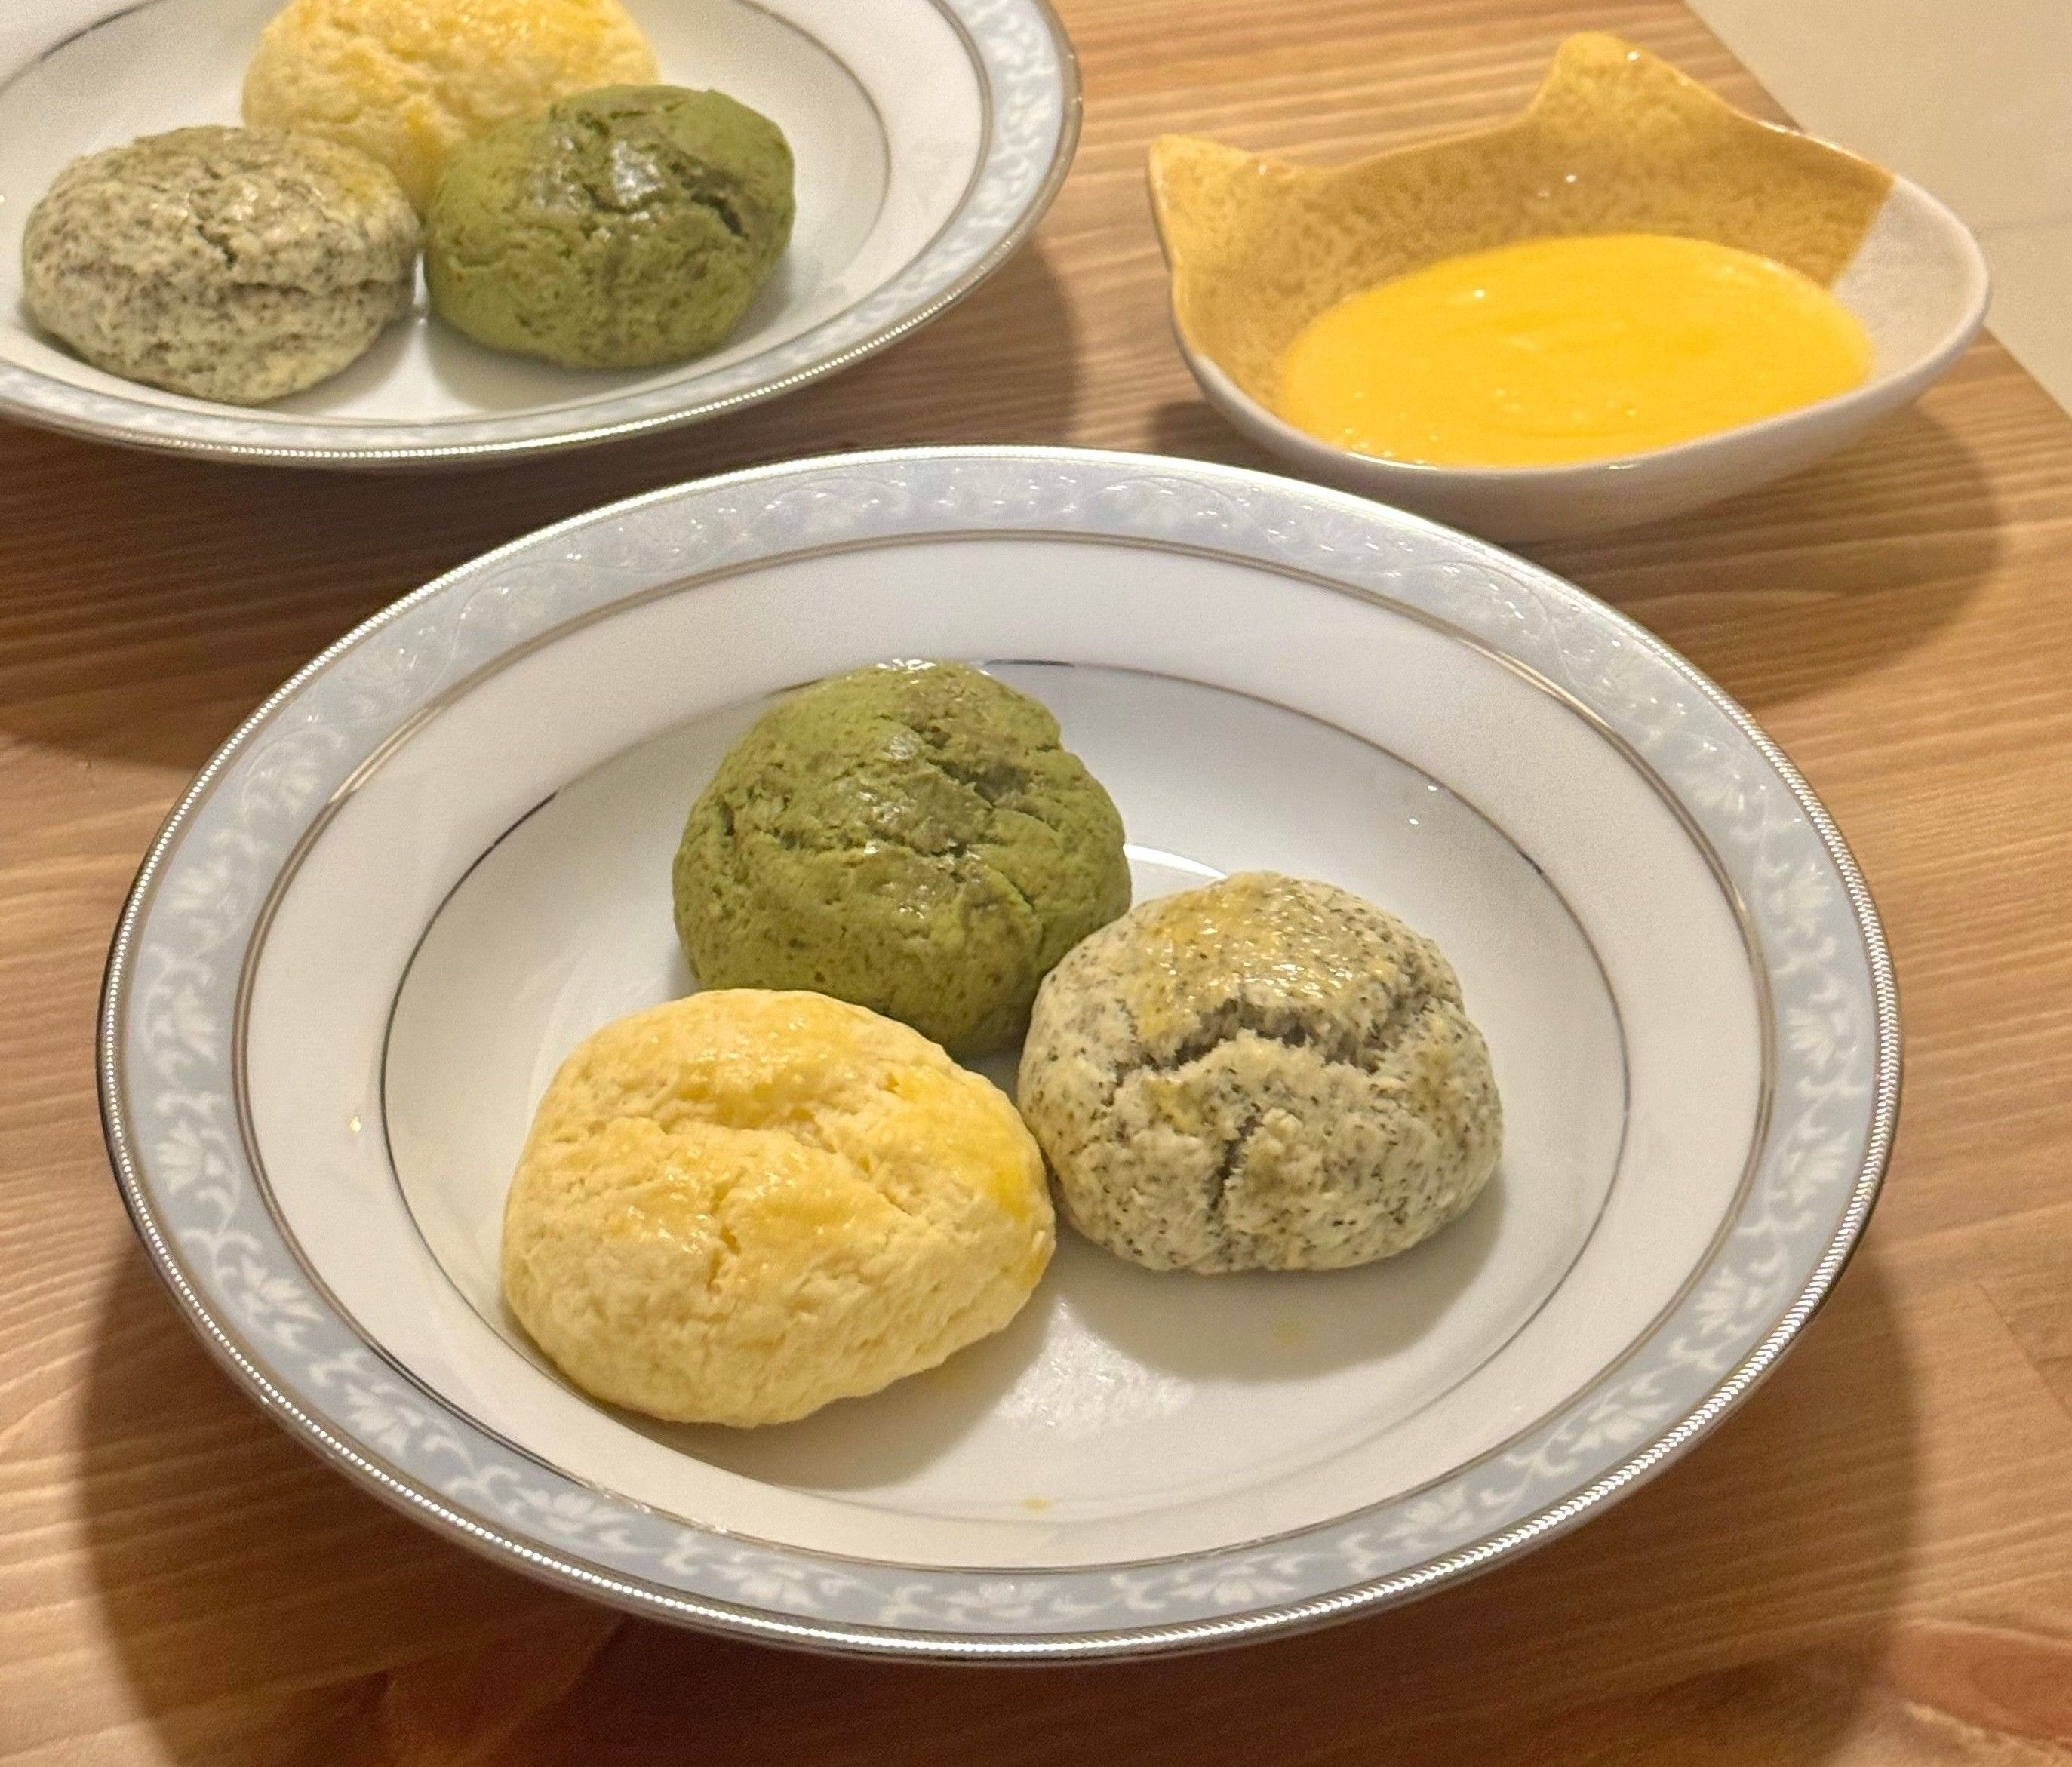
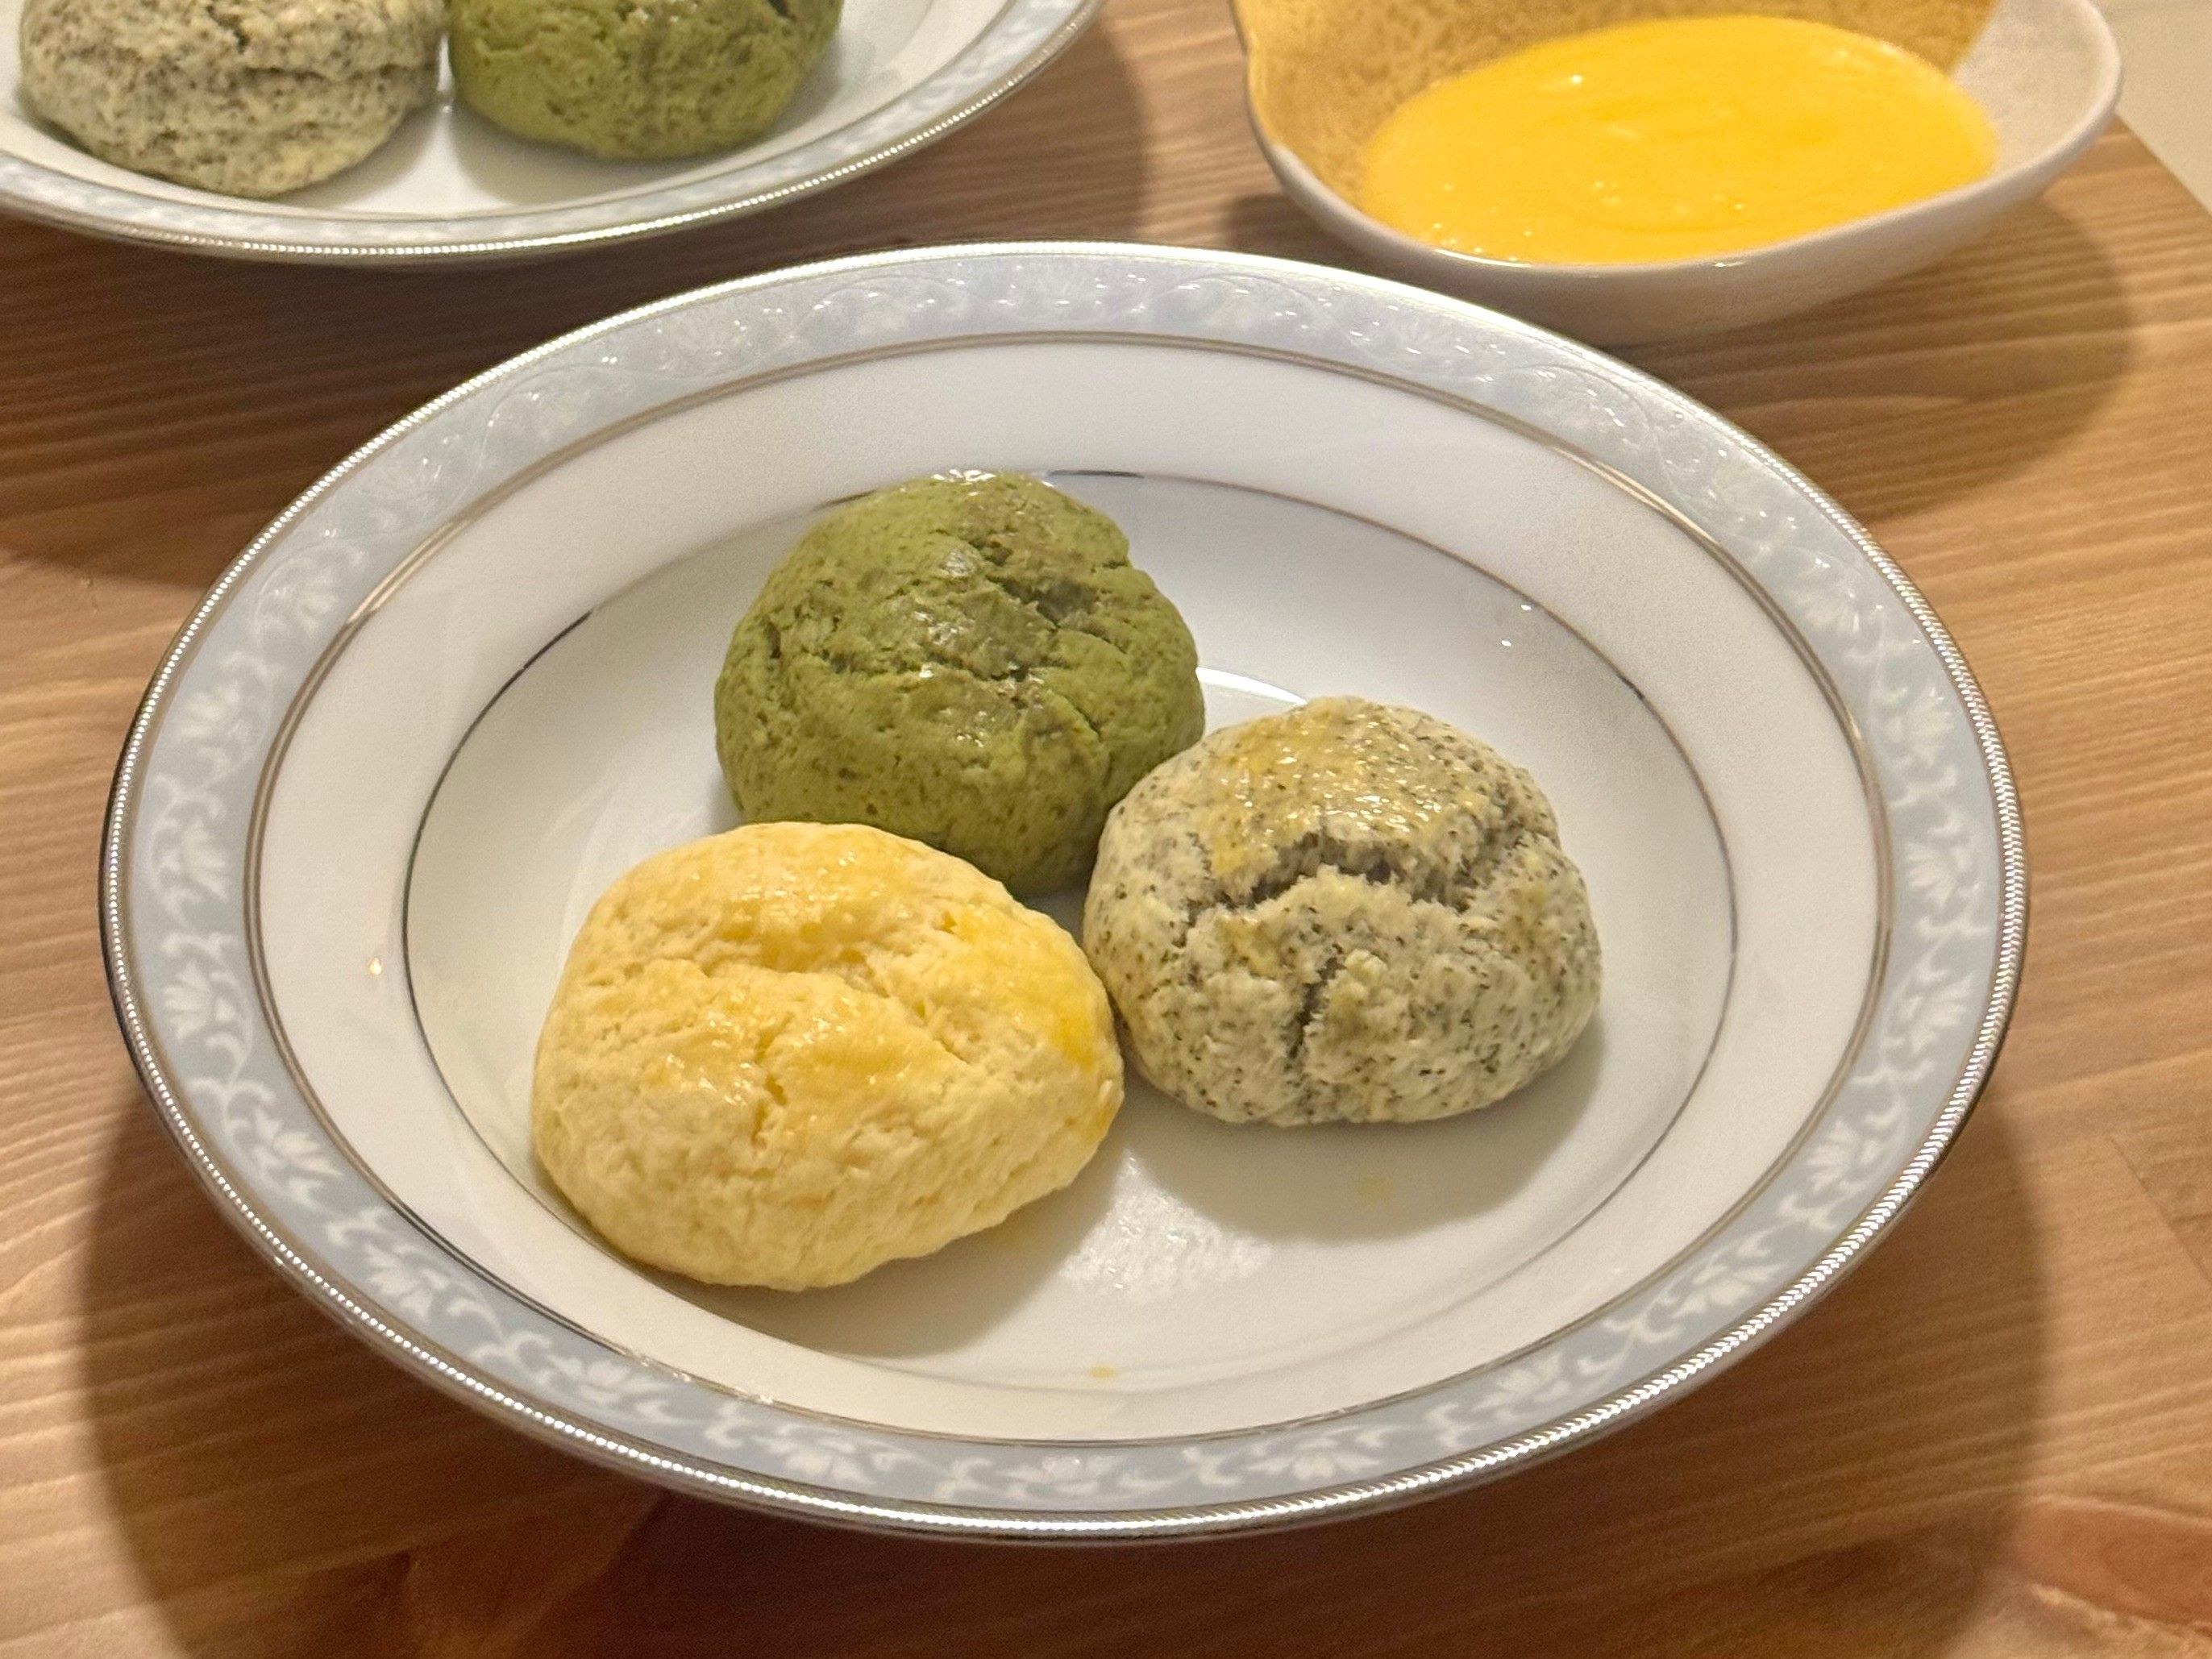
style: update british scone cover photo again

diff --git a/src/content/dishes/british-scone/zh.md b/src/content/dishes/british-scone/zh.md
@@ -24,9 +24,9 @@ ingredients:
     amount: 50g
   - name: 蛋黃液（表面刷色用）
     amount: 適量
-  - name: 伯爵茶包（可省略，做伯爵茶口味時加）
-    amount: 4g（約2包，剪開壓碎茶葉）
-  - name: 抹茶粉（可省略，做抹茶口味時加）
+  - name: 伯爵茶包（可選項）
+    amount: 4g（約2包）
+  - name: 抹茶粉（可選項）
     amount: 8g
 draft: false
 ---
@@ -34,7 +34,7 @@ draft: false
 ## 🍳 作法
 
 1. 將低筋麵粉、砂糖、鹽、泡打粉放入盆子中，混合均勻。
-2. 想做伯爵茶口味，此時加入壓碎的伯爵茶葉一起拌入。想做抹茶口味，則改加入抹茶粉一起拌入。
+2. 如果想做伯爵茶口味，加入壓碎的伯爵茶葉一起拌入。想做抹茶口味的話則改加入抹茶粉一起拌入。
 3. 加入切成小塊的冰奶油，用刮刀將奶油和粉類切拌均勻，直到呈現粗砂狀。
 4. 加入冰的全蛋液，攪拌均勻。
 5. 加入冰的動物性鮮奶油攪拌，攪拌至成團（不要過度搓揉，避免出筋）